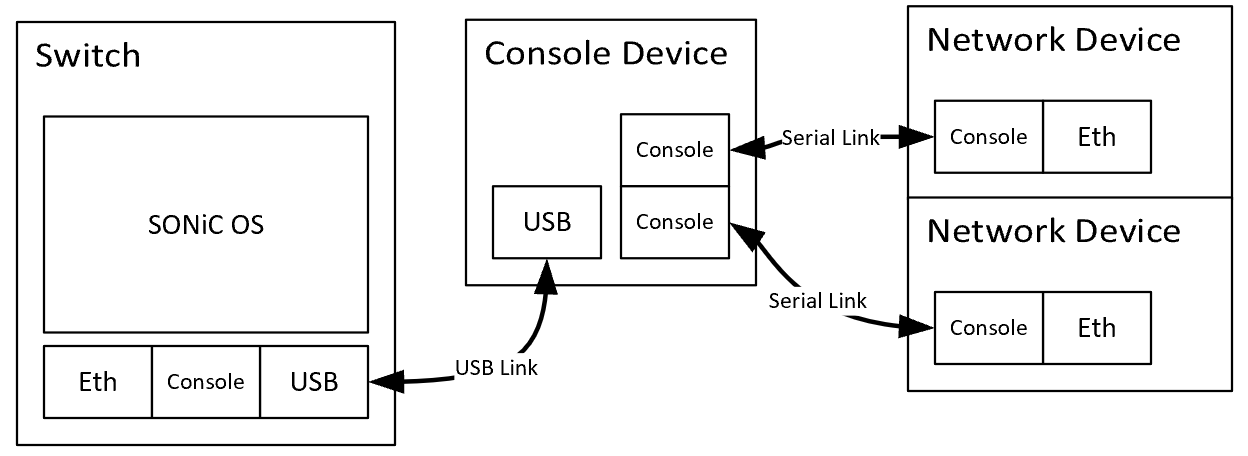
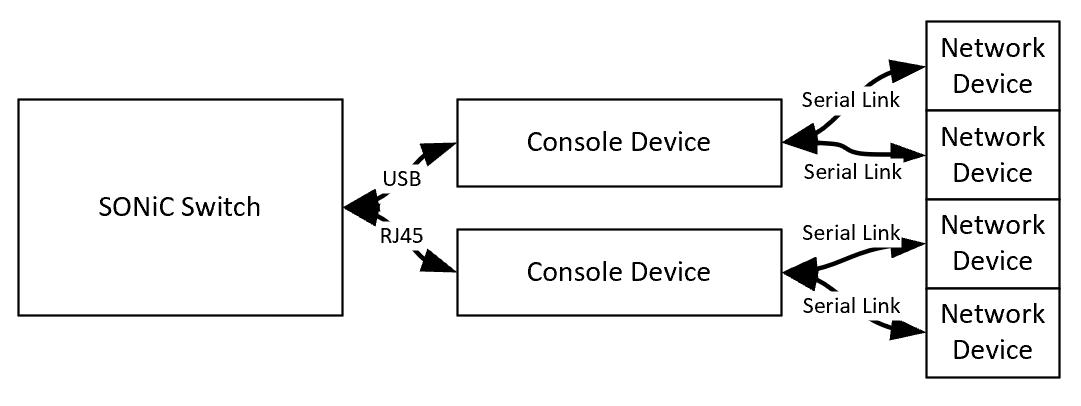
Update CLI part and complete the flow part

diff --git a/doc/console/SONiC-Console-Switch-High-Level-Design.md b/doc/console/SONiC-Console-Switch-High-Level-Design.md
@@ -28,6 +28,9 @@ This document describes the functionality and high level design of the Console s
 | Term | Meaning
 |---|---|
 | SSH | Secure Shell |
+| CLI | Command Line Interface |
+| OS | Operating System |
+| USB | Universal Serial Bus |
 
 # 1 Feature Overview
 Console Switch enable user to manage routers/switchs via console port.
@@ -49,14 +52,16 @@ Console Switch enable user to manage routers/switchs via console port.
 
 ### 1.2.1 Basic Approach
 
-Console device(Serial Hub) connect to a SONiC device via USB link.
+Enable SONiC device to manage connected Console device(Serial Hub).
 
 Persist console configurations to control how to view/connect to a device via serial link, includes:
+- Driver
 - Line Number
 - Flow Control switch
 - Remote Device Name
+- Management IP (optional)
 
-SONiC use picocom to connect to a remote device.
+SONiC OS provide a unified cli utility to help user connect and manage remote device.
 User use SSH to connect to SONiC device via SONiC management IP.
 
 ### 1.2.2 Container
@@ -85,25 +90,31 @@ Refer to section 1.1
 
 The design overview at a high level:
 
-SONiC OS is run on a regular network router or switch.
-Console device(s) are connect to the SONiC device via USB link as add-on.
-Below diagram shows the relationship:
-
 ![SONiC Console Topo](./ConsoleTopo.png)
 
-Users can access Network Devices through SONiC Switch.
+SONiC OS is run on a regular network router or switch.
+
+The Console device is serial hub which enable user to manage multiple network devices via console.
+
+Console device(s) are connect to the SONiC device as add-on. In current design, there are no limitation to the way you can connect and no limit to the number of add-on devices. All limitation is on SONiC switch's hardware interfaces and console device's driver.
+
+Below diagram shows a sample that a console device connect to a SONiC device by using USB link:
+
+![SONiC Console Topo USB](./ConsoleTopo_USB.png)
+
+User can use daisy-chain to add new console device to extend more console ports.
+
+User can access Network Devices through SONiC Switch.
 
 ### 3.1.1 Persist console port configurations
 
 Console port settings are persist in CONFIG_DB.
 
-The configuration can be load from both config_db.json and minigraph.xml
+The configuration can be load from both ```config_db.json``` and ```minigraph.xml```
 
-### 3.1.2 Connect to a remote device by using picocom
+### 3.1.2 Connect to a remote device
 
-A command line utility use picocom as client to connect to remote console line.
-
-The command line utility 
+A command line utility which enable user to connect to remote network device and manage them via console.
 
 ### 3.1.3 Reverse SSH
 
@@ -113,7 +124,7 @@ The SONiC ssh enable user to connect to a console line without opening more TCP 
 ssh <user>@<host> consult connect <line>
 ```
 
-For better user experience, a customized sshd which can leave forwarding information in user's session will be install to SONiC OS. The default ```/etc/bash.bashrc``` will be modified and it will pick the forwarding setting and enter the picocom session automatically.
+For better user experience, a customized sshd which can leave forwarding information in user's session will be install to SONiC OS. The default ```/etc/bash.bashrc``` will be modified and it will pick the forwarding setting and enter the interactive cli automatically.
 
 Two kinds of reverse SSH connection style will be support:
 
@@ -134,14 +145,14 @@ For A, user need to specific the line number by following a colon after username
 ssh tom:1@host
 ```
 
-By default, the content between colon and @ will be trimed by sshd before it do authentication and the trimed string will be dropped silently. To use this segment as line number for reverse SSH feature, we need to modify the source of OpenSSH and put this segment to a environment variable ```$SSH_TARGET_CONSOLE_LINE```, then we can insert a short script into ```/etc/bash.bashrc``` and run command ```consutil connect $SSH_TARGET_CONSOLE_LINE``` to enter the management session.
+By default, the content between ```:``` and ```@``` will be trimed by sshd before it do authentication and the trimed string will be dropped silently. To use this segment as line number for reverse SSH feature, we need to modify the source of OpenSSH and put this segment to a environment variable ```$SSH_TARGET_CONSOLE_LINE```, then we can insert a short script into ```/etc/bash.bashrc``` and run command ```consutil connect $SSH_TARGET_CONSOLE_LINE``` to enter the management session automatically after user login.
 
-For B, there are multiple management IPs binding to the SONiC device and mapping them to each console port, for example:
+For B, there are multiple management IPs binding to the SONiC device and mapping to each console port, for example:
 ```
-    IP   -> Console Line Number -> Remote Device
-10.0.0.1 ->          1                DeviceA
-10.0.0.2 ->          2                DeviceB
-10.0.0.3 ->          3                DeviceC
+   IP    ->  Console Line Number -> Remote Device
+10.0.0.1 ->          1           ->   DeviceA
+10.0.0.2 ->          2           ->   DeviceB
+10.0.0.3 ->          3           ->   DeviceC
 ```
 Then we can use below commands to connect to a remote device, what's more, we can use DNS to help us access the remote device more directly.
 ```bash
@@ -149,9 +160,10 @@ Then we can use below commands to connect to a remote device, what's more, we ca
 ssh tom@10.0.0.1
 ssh tom@10.0.0.2
 
-# Assume domain name DeviceC.co point to 10.0.0.3
+# Assume that domain name DeviceC.co point to 10.0.0.3
 ssh tom@DeviceC.co
 ```
+The mechanism behind it is actually very similar to mode A. We will record the target ssh host IP address to a environment variable ```$SSH_TARGET_IP```. Since we have stored the relationship between line number and it's management IP, then we can easily start the management session automaticaaly after user login by calling ```consutil connect``` command in ```/etc/bash.bashrc```
 
 ## 3.2 DB Changes
 
@@ -167,11 +179,15 @@ The CONSOLE_PORT_TABLE holds the configuration database for the purpose of conso
 key = CONSOLE_PORT:port
 
 ; field = value
+driver        = "USB"                   ; console device driver,
+                                        ; at the first phase, we
+                                        ; only support USB
 remote_device = 1*255VCHAR              ; name of remote device
 baud_rate     = 1*11 DIGIT              ; baud rate
 flow_control  = "0"/"1"                 ; "0" means disable flow control
                                         ; "1" means enable flow control
-mgmt_ip       = ipv4_prefix/ipv6_prefix ; optional field, use for ip forwarding
+mgmt_ip       = ipv4_prefix/ipv6_prefix ; optional field,
+                                        ; use for ip forwarding
 
 ```
 
@@ -195,6 +211,8 @@ No changes are introduced in COUNTER DB.
 
 ## 3.3.1 Consutil Command
 
+consutil command provider a unified way to access/manage the remote network device.
+
 ```
 Usage: consutil [OPTIONS] COMMAND [ARGS]...
 
@@ -210,13 +228,28 @@ Commands:
   show     Show all /dev/ttyUSB lines and their info
 ```
 
+Please notice that a driver is required for add-on console device. The driver need to mapping its console lines to a device under```/dev``` with specific format, then the consutil command can interact with the target device with picocom/minicom and retrive required runtime information from system.
+
+The ```driver``` field in ```CONFIG_DB``` will indicate which device naming format will be applied.
+
 ### 3.3.1.1 Show line
 
-Show all /dev/ttyUSB lines and their infomations.
+Show all registered lines and their infomations.
 
 ```
 Usage: sudo consutil show
 ```
+
+Following information will be display:
+
+- Line
+- Actual/Configured Baud
+- PID
+- Start Time of process
+- Remote device name
+- Management IP
+
+A ```*``` mark will display in front of line number if it is busy now.
 
 ### 3.3.1.2 Clear line
 
@@ -226,6 +259,8 @@ Clear preexisting connection to line.
 Usage: consutil clear [OPTIONS] LINENUM
 ```
 
+It will sending SIGTERM to process if the line is busy now, otherwise the command will exit.
+
 ### 3.3.1.3 Connect line
 
 Connect to switch via console.
@@ -233,6 +268,24 @@ Connect to switch via console.
 ```
 Usage: consutil connect [OPTIONS] TARGET
 ```
+
+The TARGET can be remoete device name or line management IP if specific ```--devicename``` or ```--mgmtip```.
+
+This command will connect to remote device by using picocom, it will create a interactive cli if target line is not busy.
+
+Sample Usage:
+```bash
+# connect to line 1
+consutil connect 1
+
+# connect to remote deviceA
+consutil connect --devicename deviceA
+
+# connect to remote device via line management IP
+consutil connect --mgmtip 10.0.0.1
+```
+
+This command use picocom to create an interactive cli. It will create a picocom process with a specific device under ```/dev``` and join the interactive cli.
 
 ## 3.4 Reverse SSH
 
@@ -251,7 +304,7 @@ ssh <user>:<line>@<host>
 
 ### 3.4.3 IP based Forwarding
 ```bash
-ssh <user>@<IP Address(IPv6)>
+ssh <user>@<IP Address(IPv4/IPv6)>
 ```
 
 ## 3.5 Example Configuration
@@ -263,6 +316,7 @@ Console port 1 connect to a remote device ```switch1``` with baud_rate 9600 and 
 {
     "CONSOLE_PORT": {
         "1": {
+            "driver": "USB",
             "remote_device": "switch1",
             "baud_rate": "9600",
             "flow_control": "1",
@@ -274,6 +328,8 @@ Console port 1 connect to a remote device ```switch1``` with baud_rate 9600 and 
 User can manage remote device ```switch1``` by using below commands:
 ```bash
 ssh <user>@<host> consutil connect 1
+ssh <user>@<host> consutil connect switch1
+ssh <user>@<host> consutil connect 10.0.0.1
 ssh <user>:1@<host>
 ssh <user>@10.0.0.1
 ```
@@ -283,6 +339,7 @@ Console port 2 connect to a remote device ```switch2``` with baud_rate 9600 and 
 {
     "CONSOLE_PORT": {
         "2": {
+            "driver": "USB",
             "remote_device": "switch2",
             "baud_rate": "9600",
             "flow_control": "0"
@@ -293,6 +350,7 @@ Console port 2 connect to a remote device ```switch2``` with baud_rate 9600 and 
 User can manage remote device ```switch2``` by using below commands:
 ```bash
 ssh <user>@<host> consutil connect 2
+ssh <user>@<host> consutil connect switch2
 ssh <user>:2@<host>
 ```
 
@@ -300,19 +358,21 @@ ssh <user>:2@<host>
 
 ## 4.1 Creating of Console Port Objects
 
-TODO
+Parse ```minigraph.xml``` or ```config_db.json``` and call sonic-cfggen to generate the console port objects, then store it to CONFIG_DB.
+
+![Create Config Table](./CreateConfigTable.png)
 
 ## 4.2 Show lines
 
-TODO
+![Show Lines](./ShowLines.png)
 
 ## 4.3 Clear line
 
-TODO
+![Clear Line](./ClearLine.png)
 
 ## 4.4 Connect line in SONiC
 
-TODO
+![Connect Lines](./ConnectLine.png)
 
 ## 4.5 Connect line via SSH
 
@@ -355,7 +415,7 @@ The Console switch settings are applied to console ports.
 
 The maximum number of console port setting is specific to the console hardware SKU.
 
-The maximum number of add-on console device is specific to the maximum USB dasiy-chain capability.
+If use USB, then the maximum number of add-on console device is specific to the maximum USB dasiy-chain capability.
 
 ---
 # References
